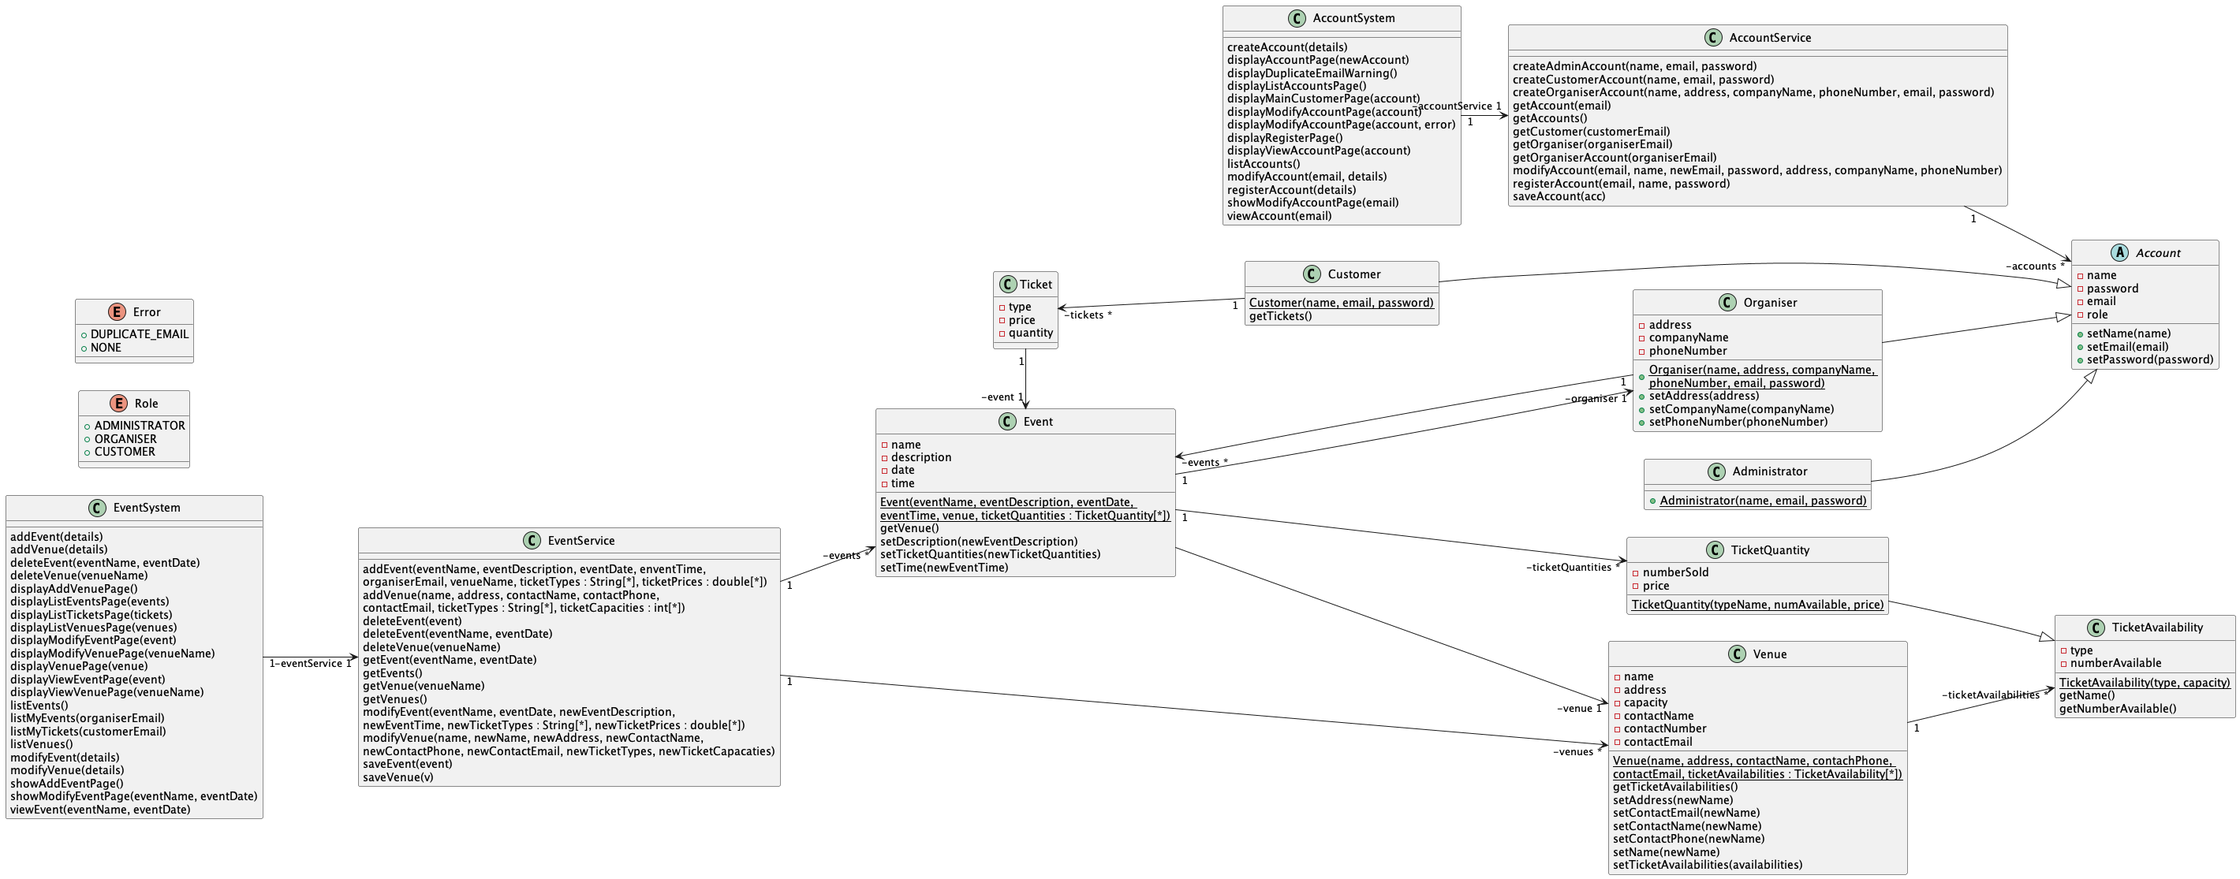
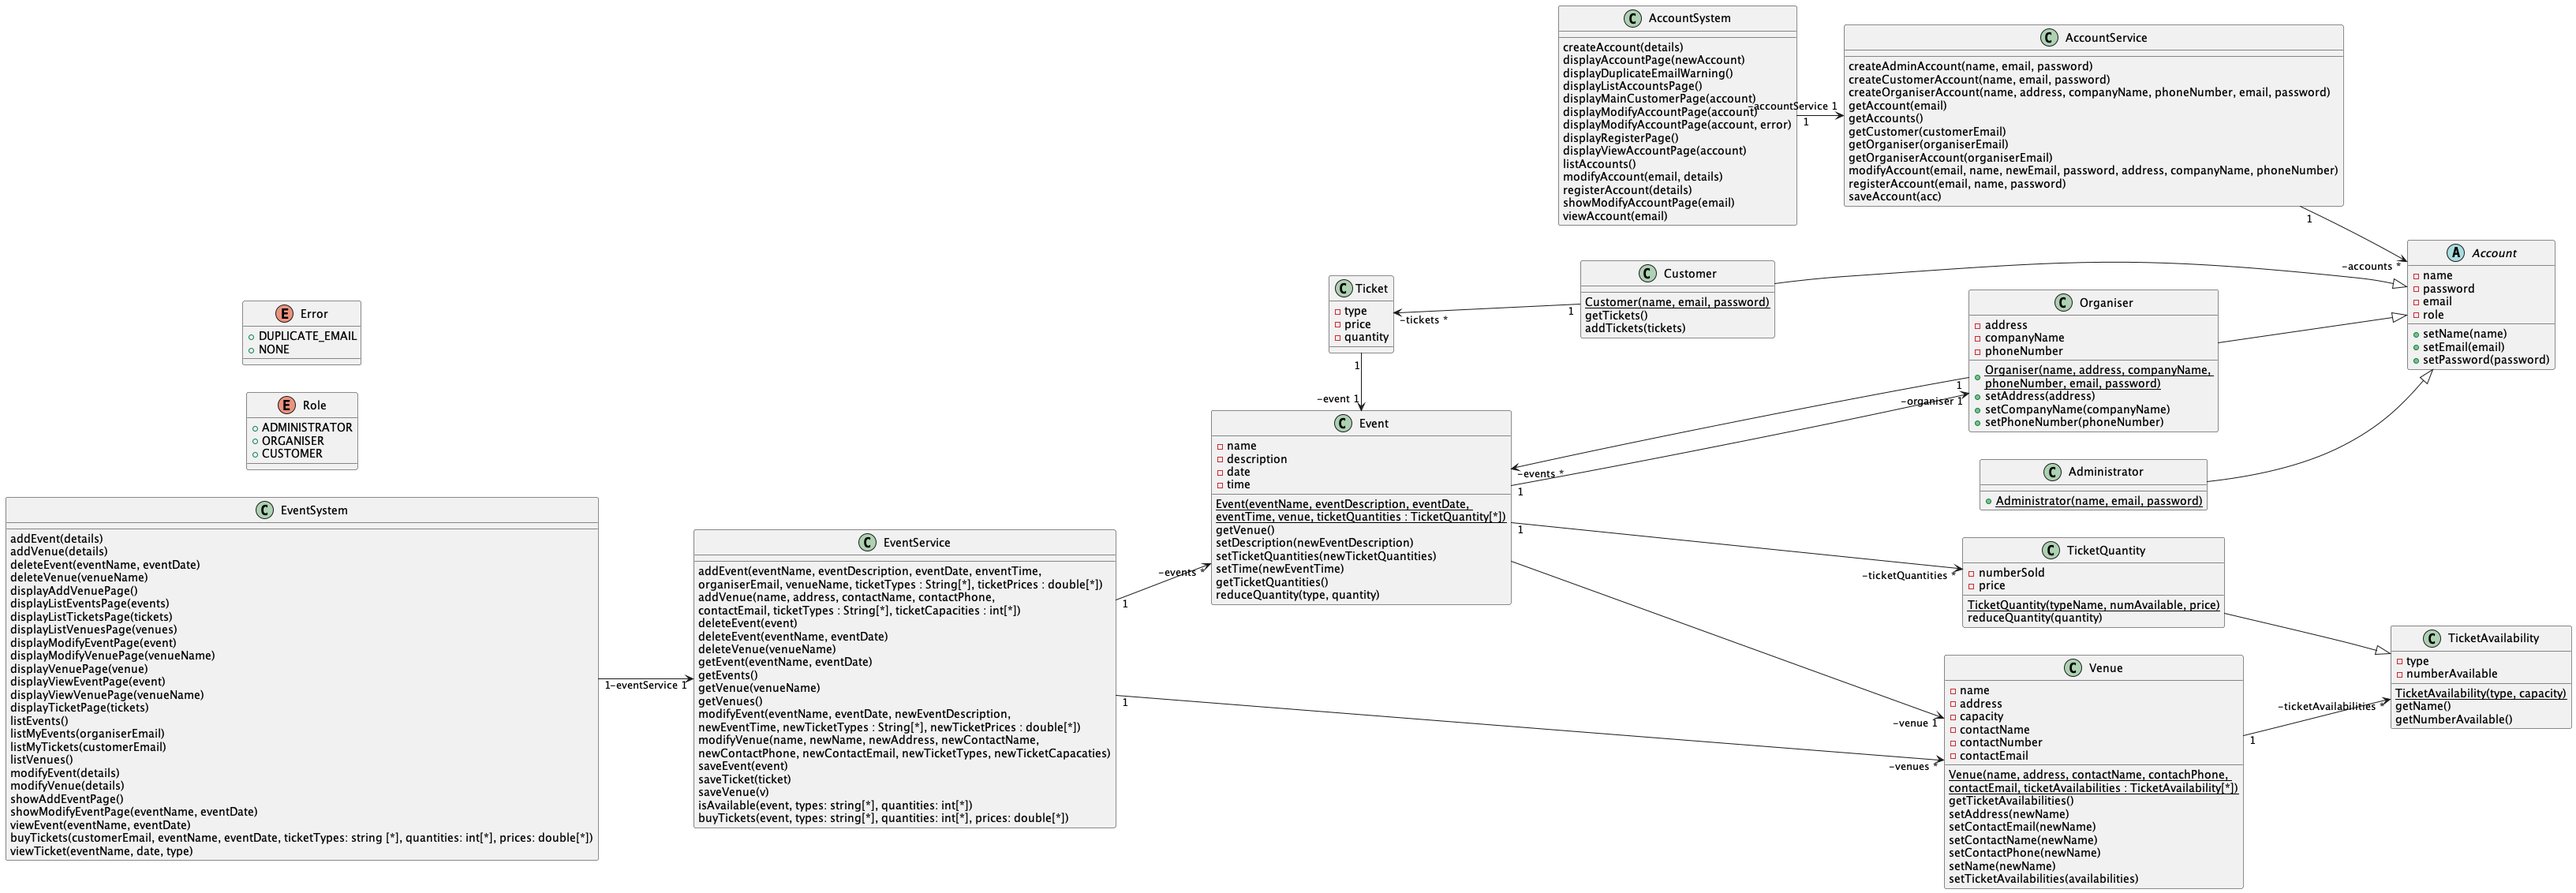
Updating sample solution to part 2

diff --git a/02-analysis-solution/README.md b/02-analysis-solution/README.md
@@ -1,3 +1,57 @@
 # Analysis Sample Solution
 
 This is a partial sample solution for the analysis part of the project. It is not complete. I will aim to add the remaining components in the coming days.
+
+
+## Use Case Realisations
+
+This includes the following use cases:
+
+1. [Create Account](/02-analysis-solution/usecases/docs/01-create-account.md)
+2. [List Accounts](/02-analysis-solution/usecases/docs/02-list-accounts.md)
+3. [View Account](/02-analysis-solution/usecases/docs/03-view-account.md)
+4. [Modify Account](/02-analysis-solution/usecases/docs/04-modify-account.md)
+5. [Register Account](/02-analysis-solution/usecases/docs/05-register-account.md)
+6. [List Venues](/02-analysis-solution/usecases/docs/06-list-venues.md)
+7. [Add Venue](/02-analysis-solution/usecases/docs/07-add-venue.md)
+8. [View Venue](/02-analysis-solution/usecases/docs/08-view-venue.md)
+9. [Modify Venue](/02-analysis-solution/usecases/docs/09-modify-venue.md)
+10. [Delete Venue](/02-analysis-solution/usecases/docs/10-delete-venue.md)
+11. [List Events](/02-analysis-solution/usecases/docs/11-list-events.md)
+12. [Add Event](/02-analysis-solution/usecases/docs/12-add-event.md)
+13. [View Event](/02-analysis-solution/usecases/docs/13-view-event.md)
+14. [Modify Event](/02-analysis-solution/usecases/docs/14-modify-event.md)
+15. [Delete Event](/02-analysis-solution/usecases/docs/15-delete-event.md)
+16. [List My Events](/02-analysis-solution/usecases/docs/16-list-my-events.md)
+17. [List Tickets](/02-analysis-solution/usecases/docs/17-list-my-tickets.md)
+18. [Buy Ticket](/02-analysis-solution/usecases/docs/18-buy-ticket.md)
+19. [View Ticket](/02-analysis-solution/usecases/docs/19-view-ticket.md)
+
+
+## Class Diagram 
+
+The class diagram for the analysis part of the project is shown below. Note how the methods included in each of the classes are those that appear in the various sequence diagrams.
+
+![Class Diagram](/02-analysis-solution/images/class-diagram.png)
+
+## Class Responsibilities
+
+### Entities
+
+1. Account - An abstract class that represents an account in the system. It represents the common attributes and methods that all accounts have.
+2. Customer - A concrete class that represents a customer account in the system. Each object is responsible for representing the information of a single customer. 
+3. Organiser - A concrete class that represents an organiser account in the system. Each object is responsible for representing the information of a single organiser.
+4. Administrator - A concrete class that represents an administrator account in the system. Each object is responsible for representing the information of a single administrator.
+5. Role - An enumeration that represents the different roles that an account can have in the system.
+6. Venue - A class that represents a venue in the system. Each object is responsible for representing the information of a single venue.
+7. TicketAvailability - A class that represents the availability of different types of tickets available at a venue. Each object is responsible for representing the availability of one type of ticket at a venue. Objects of this class are immutable.
+8. Event - A class that represents an event in the system. Each object is responsible for representing the information of a single event.
+9. TicketQuantity - A class that represents the quantity of tickets available for a particular event. Each object is responsible for representing the quantity of tickets of a single type available for a particular event as well as their price.
+10. Ticket - A class that represents a ticket in the system. Each object is responsible for representing the information of a single ticket.
+11. Error - An enumeration that represents the different types of errors that can occur in the system.
+
+### Services
+
+1. AccountService - A class that provides services related to accounts in the system. It is responsible for creating, listing, viewing, modifying, and registering accounts.
+2. EventService - 
+

diff --git a/02-analysis-solution/usecases/docs/04-modify-account.md b/02-analysis-solution/usecases/docs/04-modify-account.md
@@ -2,19 +2,19 @@
 
 ## 01 - Basic Course of Events - Administrator
 
-![Modify Account - Basic Course of Events](/02-analysis/usecases/images/04-modify-account-basic1.png)
+![Modify Account - Basic Course of Events](/02-analysis-solution/usecases/images/04-modify-account-basic1.png)
 
 ## 02 - Basic Course of Events - User
 
-![Modify Account - Basic Course of Events](/02-analysis/usecases/images/04-modify-account-basic2.png)
+![Modify Account - Basic Course of Events](/02-analysis-solution/usecases/images/04-modify-account-basic2.png)
 
 ## 03 - Alternate Course of Events - Details missing from input
 
-![Modify Account - Alternate Course of Events](/02-analysis/usecases/images/04-modify-account-alternate1.png)
+![Modify Account - Alternate Course of Events](/02-analysis-solution/usecases/images/04-modify-account-alternate1.png)
 
 ## 04 - Alternate Course of Events - New email already in use
 
-![Modify Account - Alternate Course of Events](/02-analysis/usecases/images/04-modify-account-alternate2.png)
+![Modify Account - Alternate Course of Events](/02-analysis-solution/usecases/images/04-modify-account-alternate2.png)
 
 ## Related UI Prototypes
 | Page Name   | Image                                                  |

diff --git a/02-analysis-solution/usecases/docs/05-register-account.md b/02-analysis-solution/usecases/docs/05-register-account.md
@@ -2,15 +2,15 @@
 
 ## 01 - Basic Course of Events
 
-![Register Account - Basic Course of Events](/02-analysis/usecases/images/05-register-account-basic.png)
+![Register Account - Basic Course of Events](/02-analysis-solution/usecases/images/05-register-account-basic.png)
 
 ## 02 - Alternate Course of Events - Email already in use
 
-![Register Account - Alternate Course of Events](/02-analysis/usecases/images/05-register-account-alternate.png)
+![Register Account - Alternate Course of Events](/02-analysis-solution/usecases/images/05-register-account-alternate.png)
 
 ## 03 - Alternate Course of Events - Password Requirements Not Met
 
-![Register Account - Alternate Course of Events](/02-analysis/usecases/images/05-register-account-alternate2.png)
+![Register Account - Alternate Course of Events](/02-analysis-solution/usecases/images/05-register-account-alternate2.png)
 
 ## Related UI Prototypes
 | Page Name   | Image                                                  |

diff --git a/02-analysis-solution/usecases/docs/01-create-account.md b/02-analysis-solution/usecases/docs/01-create-account.md
@@ -2,15 +2,15 @@
 
 ## 01 - Basic Course of Events
 
-![Create Account - Basic Course of Events](/02-analysis/usecases/images/01-create-account-basic.png)
+![Create Account - Basic Course of Events](/02-analysis-solution/usecases/images/01-create-account-basic.png)
 
 ## 02 - Alternate Course of Events - Duplicate Email Address
 
-![Use Case Name - Alternate Course of Events](/02-analysis/usecases/images/01-create-account-alternate1.png)
+![Use Case Name - Alternate Course of Events](/02-analysis-solution/usecases/images/01-create-account-alternate1.png)
 
 ## 03 - Alternate Course of Events - Details missing from form
 
-![Use Case Name - Alternate Course of Events](/02-analysis/usecases/images/01-create-account-alternate2.png)
+![Use Case Name - Alternate Course of Events](/02-analysis-solution/usecases/images/01-create-account-alternate2.png)
 
 ### Related UI Prototypes
 | Page Name   | Image                                                  |

diff --git a/02-analysis-solution/usecases/docs/15-delete-event.md b/02-analysis-solution/usecases/docs/15-delete-event.md
@@ -2,11 +2,11 @@
 
 ## 01 - Basic Course of Events
 
-![Delete Event - Basic Course of Events](/02-analysis/usecases/images/15-delete-event-basic.png)
+![Delete Event - Basic Course of Events](/02-analysis-solution/usecases/images/15-delete-event-basic.png)
 
 ## 02 - Alternate Course of Events - Not Confirmed
 
-![Delete Event - Alternate Course of Events - Not Confirmed](/02-analysis/usecases/images/15-delete-event-alternate.png)
+![Delete Event - Alternate Course of Events - Not Confirmed](/02-analysis-solution/usecases/images/15-delete-event-alternate.png)
 
 ## Relevant UI Sketches
 | Page Name | Image |

diff --git a/02-analysis-solution/usecases/docs/03-view-account.md b/02-analysis-solution/usecases/docs/03-view-account.md
@@ -2,11 +2,11 @@
 
 ## 01 - Basic Course of Events
 
-![List Accounts - Basic Course of Events](/02-analysis/usecases/images/03-view-account-basic1.png)
+![List Accounts - Basic Course of Events](/02-analysis-solution/usecases/images/03-view-account-basic1.png)
 
 ## 02 - Basic Course of Events
 
-![List Accounts - Basic Course of Events](/02-analysis/usecases/images/03-view-account-basic2.png)
+![List Accounts - Basic Course of Events](/02-analysis-solution/usecases/images/03-view-account-basic2.png)
 
 ## Related UI Prototypes
 | Page Name   | Image                                                  |

diff --git a/02-analysis-solution/usecases/docs/19-view-ticket.md b/02-analysis-solution/usecases/docs/19-view-ticket.md
@@ -1,8 +1,8 @@
-# Use Case 18 - Buy Ticket
+# Use Case 19 - View Ticket
 
 ## 01 - Basic Course of Events
 
-![Buy Ticket - Basic Course of Events](/02-analysis-solution/usecases/images/18-buy-ticket-basic.png)
+![Buy Ticket - Basic Course of Events](/02-analysis-solution/usecases/images/19-view-ticket-basic.png)
 
 ## Relevant UI Sketches
 | Page Name | Image |

diff --git a/02-analysis-solution/usecases/docs/02-list-accounts.md b/02-analysis-solution/usecases/docs/02-list-accounts.md
@@ -2,7 +2,7 @@
 
 ## 01 - Basic Course of Events
 
-![List Accounts - Basic Course of Events](/02-analysis/usecases/images/02-list-accounts-basic.png)
+![List Accounts - Basic Course of Events](/02-analysis-solution/usecases/images/02-list-accounts-basic.png)
 
 ## Related UI Prototypes
 | Page Name   | Image                                                  |

diff --git a/02-analysis-solution/usecases/docs/17-list-my-tickets.md b/02-analysis-solution/usecases/docs/17-list-my-tickets.md
@@ -2,7 +2,7 @@
 
 ## 01 - Basic Course of Events
 
-![List My Tickets - Basic Course of Events](/02-analysis/usecases/images/17-list-my-tickets-basic.png)
+![List My Tickets - Basic Course of Events](/02-analysis-solution/usecases/images/17-list-my-tickets-basic.png)
 
 ## Relevant UI Sketches
 | Page Name | Image |

diff --git a/02-analysis-solution/usecases/docs/16-list-my-events.md b/02-analysis-solution/usecases/docs/16-list-my-events.md
@@ -2,7 +2,7 @@
 
 ## 01 - Basic Course of Events
 
-![List My Events - Basic Course of Events](/02-analysis/usecases/images/16-list-my-events-basic.png)
+![List My Events - Basic Course of Events](/02-analysis-solution/usecases/images/16-list-my-events-basic.png)
 
 ## Relevant UI Sketches
 | Page Name | Image |

diff --git a/02-analysis-solution/usecases/docs/10-delete-venue.md b/02-analysis-solution/usecases/docs/10-delete-venue.md
@@ -2,7 +2,7 @@
 
 ## 01 - Basic Course of Events
 
-![Delete Venue - Basic Course of Events](/02-analysis/usecases/images/10-delete-venue-basic.png)
+![Delete Venue - Basic Course of Events](/02-analysis-solution/usecases/images/10-delete-venue-basic.png)
 
 ## 02 - Alternate Course of Events - Not Confirmed
 

diff --git a/02-analysis-solution/usecases/docs/09-modify-venue.md b/02-analysis-solution/usecases/docs/09-modify-venue.md
@@ -2,7 +2,7 @@
 
 ## 01 - Basic Course of Events
 
-![Modify Venue - Basic Course of Events](/02-analysis/usecases/images/09-modify-venue-basic.png)
+![Modify Venue - Basic Course of Events](/02-analysis-solution/usecases/images/09-modify-venue-basic.png)
 
 ## Relevant UI Sketches
 | Page Name | Image |
